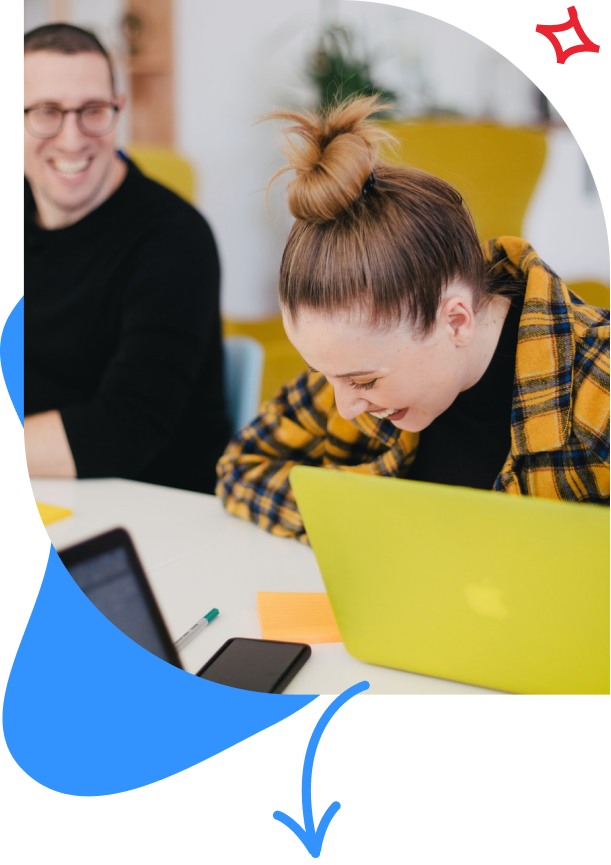
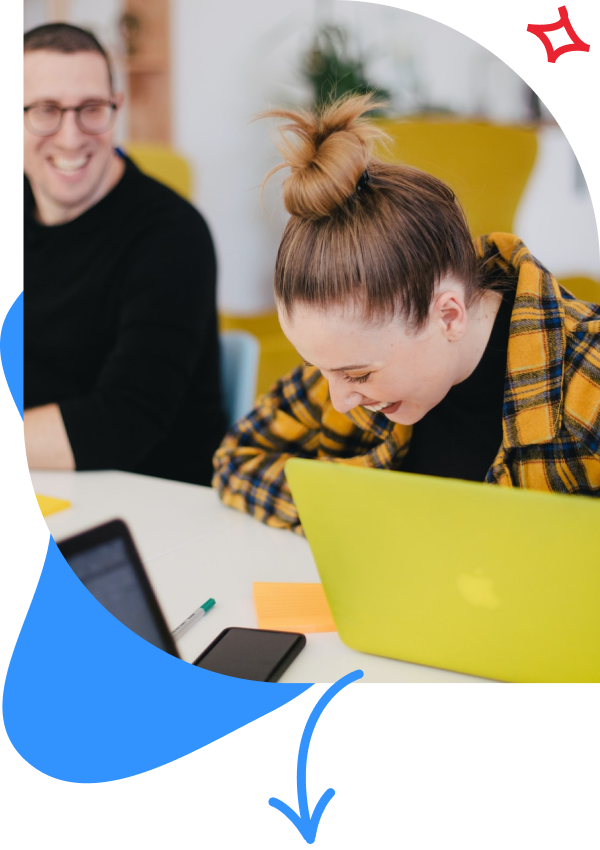
Update: mobile and tablet

diff --git a/components/Sections/Intro/index.tsx b/components/Sections/Intro/index.tsx
@@ -1,12 +1,12 @@
 import Image from 'next/image'
 import React from 'react'
-import styles from './IntroSec.module.css'
+import { Section } from './styles'
 
 const IntroSec: React.FC = () => {
     return (
-        <section>
-            <div className={styles.Wrapper + ' container'}>
-                <div className={styles.Img1}>
+        <Section>
+            <div className="container">
+                <div className="img-1">
                     <Image
                         src="/intro/left.png"
                         layout="responsive"
@@ -15,7 +15,7 @@ const IntroSec: React.FC = () => {
                     />
                 </div>
 
-                <div className={styles.Content}>
+                <div className="content">
                     <h1>
                         International <br /> Student Agency
                     </h1>
@@ -25,16 +25,21 @@ const IntroSec: React.FC = () => {
                         <b> network</b>. Join us.
                     </p>
                 </div>
-                <div className={styles.mobileIllustration}>
-                    <Image
-                        src="/intro/mobile-illustration-1.png"
-                        layout="responsive"
-                        width={331}
-                        height={470}
-                    />
+
+                <div className="mobile-illustration wrap-img">
+                    <picture>
+                        <source
+                            srcSet="/intro/tablet-illustration-1.png"
+                            media="(min-width: 600px)"
+                        />
+                        <img
+                            src="/intro/mobile-illustration-1.png"
+                            alt="Illustration of Intro"
+                        />
+                    </picture>
                 </div>
 
-                <div className={styles.Img2}>
+                <div className="img-2">
                     <Image
                         src="/intro/right.png"
                         layout="responsive"
@@ -43,7 +48,7 @@ const IntroSec: React.FC = () => {
                     />
                 </div>
             </div>
-        </section>
+        </Section>
     )
 }
 

diff --git a/components/Sections/Intro/styles.ts b/components/Sections/Intro/styles.ts
@@ -1,0 +1,82 @@
+import styled from 'styled-components'
+
+export const Section = styled.section`
+    @media (min-width: 1024px) {
+        display: flex;
+        justify-content: center;
+    }
+
+    .content {
+        display: flex;
+        flex-direction: column;
+        align-items: center;
+
+        @media (min-width: 1024px) {
+            margin-top: 120px;
+        }
+
+        h1 {
+            font-size: 46px;
+            text-align: center;
+            font-family: var(--font2);
+            margin-bottom: 14px;
+            font-weight: bold;
+            line-height: 100%;
+
+            @media (min-width: 768px) {
+                font-size: 72px;
+                margin-bottom: 22px;
+            }
+        }
+
+        p {
+            text-align: center;
+            color: var(--gray1);
+            font-size: 18px;
+            max-width: 320px;
+            margin-bottom: 30px;
+
+            @media (min-width: 768px) {
+                font-size: 24px;
+                max-width: 500px;
+                margin-bottom: 34px;
+            }
+        }
+
+        p b {
+            color: var(--blue);
+            font-weight: bold;
+        }
+    }
+
+    .mobile-illustration {
+        max-width: 332px;
+        margin: 0 auto;
+
+        @media (min-width: 768px){
+            max-width: 420px;
+        }
+
+        @media (min-width: 1024px) {
+            display: none;
+        }
+    }
+
+    .img-1 {
+        display: none;
+
+        @media (min-width: 1024px) {
+            display: block;
+            width: 300px;
+        }
+    }
+    .img-2 {
+        display: none;
+
+        @media (min-width: 1024px) {
+            display: block;
+            width: 300px;
+            margin-top: 70px;
+        }
+    }
+`
